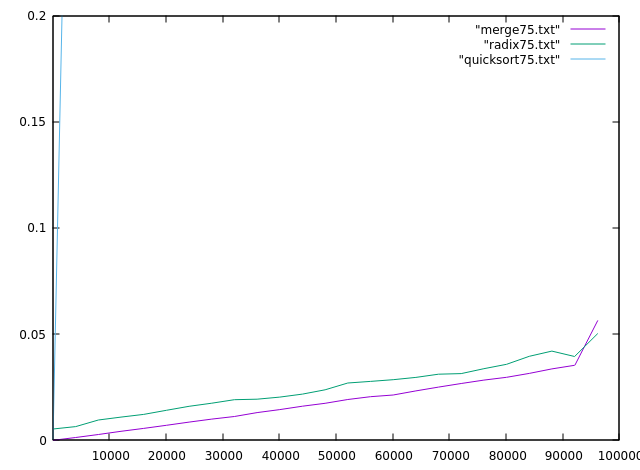
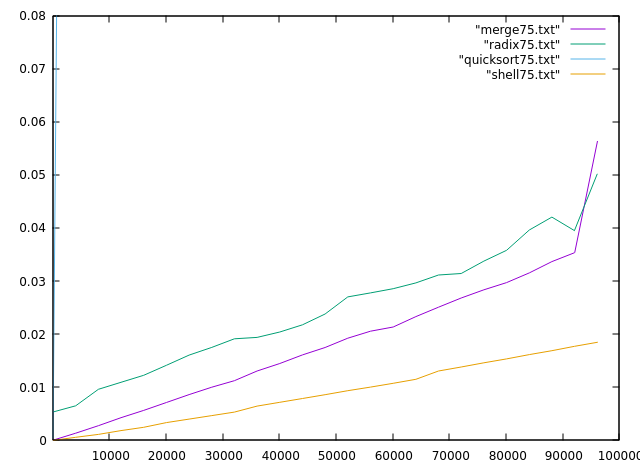
Fixed sorted75_log.png and generated the graph comparing the merge and the radix

diff --git a/author.md b/author.md
@@ -1,0 +1,48 @@
+# Identificação Pessoal
+
+Preencha os dados abaixo para identificar a autoria do trabalho.
+
+- Nome: *<José Maia da Silva Neto>*
+- Email: *<maianeto2014@gmail.com>*
+- Turma: *<DIM0119-ESTRUTURA DE DADOS BÁSICAS I - T01(2023.1)>*
+
+
+- Nome: *<Arthur Ferreira de Holanda>*
+- Email: *<>*
+- Turma: *<DIM0119-ESTRUTURA DE DADOS BÁSICAS I - T01(2023.1)>*
+
+# Indique quais algoritmos foram implementados nos experimentos
+
+- [x] Insertion sort
+- [x] Selection sort
+- [x] Bubble sort
+- [x] Shell sort
+- [x] Quick sort
+- [x] Merge sort
+- [x] Radix sort
+
+# Indique quais dos cenários de dados abaixo você conseguiu simular nos experimentos
+
+- [x] todos randômicos
+- [x] parcialmente ordenado (75%)
+- [x] parcialmente ordenado (50%)
+- [x] parcialmente ordenado (25%)
+- [x] dados em ordem não-decrescente
+- [x] dados em ordem não-crescente
+
+# Escreva a quantidade de amostras coletadas por experimento
+
+- Utilizei _XXX_ amostras por experimento
+
+# Indique quais das perguntas abaixo foram respondidas no relatório
+
+- [ ] O que você descobriu de maneira geral.
+- [ ] Quais algoritmos são recomendados para quais cenários?
+- [ ] Como o algoritmo de decomposição de chave (radix) se compara com o melhor algoritmo baseado em _comparação_ de chaves?
+- [ ] É verdade que o _quick sort_, na prática, é mesmo mais rápido do que o _merge sort_?
+- [ ] Aconteceu algo inesperado nas medições? (por exemplo, picos ou vales nos gráficos) Se sim, por que?
+- [ ] Com base nos resultados empíricos, faça uma estimativa para os 7 algoritmos estudados de quanto tempo seria necessário para rodar uma amostra de $10^12$ elementos.
+- [ ] A análise empírica é compatível com a análise de complexidade matemática? Ou seja, você consegui ajustar uma curva compatível com a complexidade aos dados?
+
+--------
+&copy; DIMAp/UFRN 2021.
